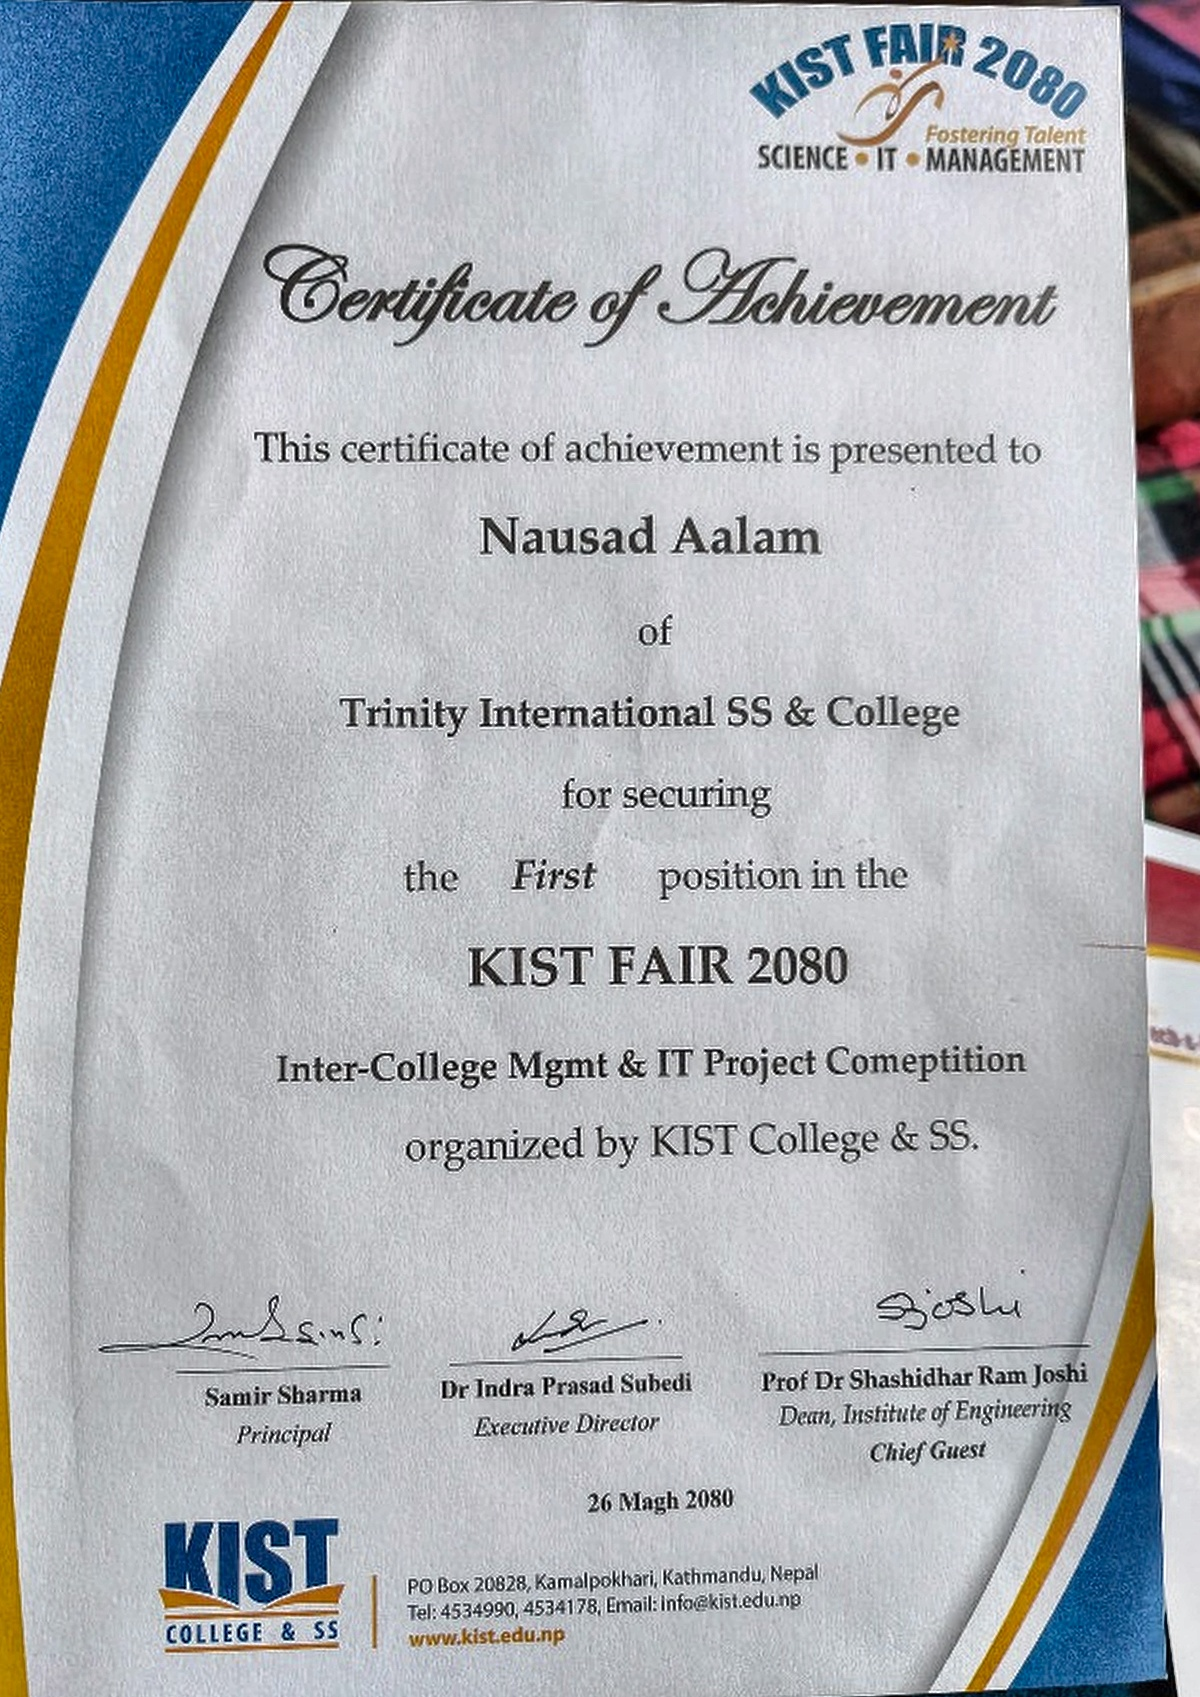
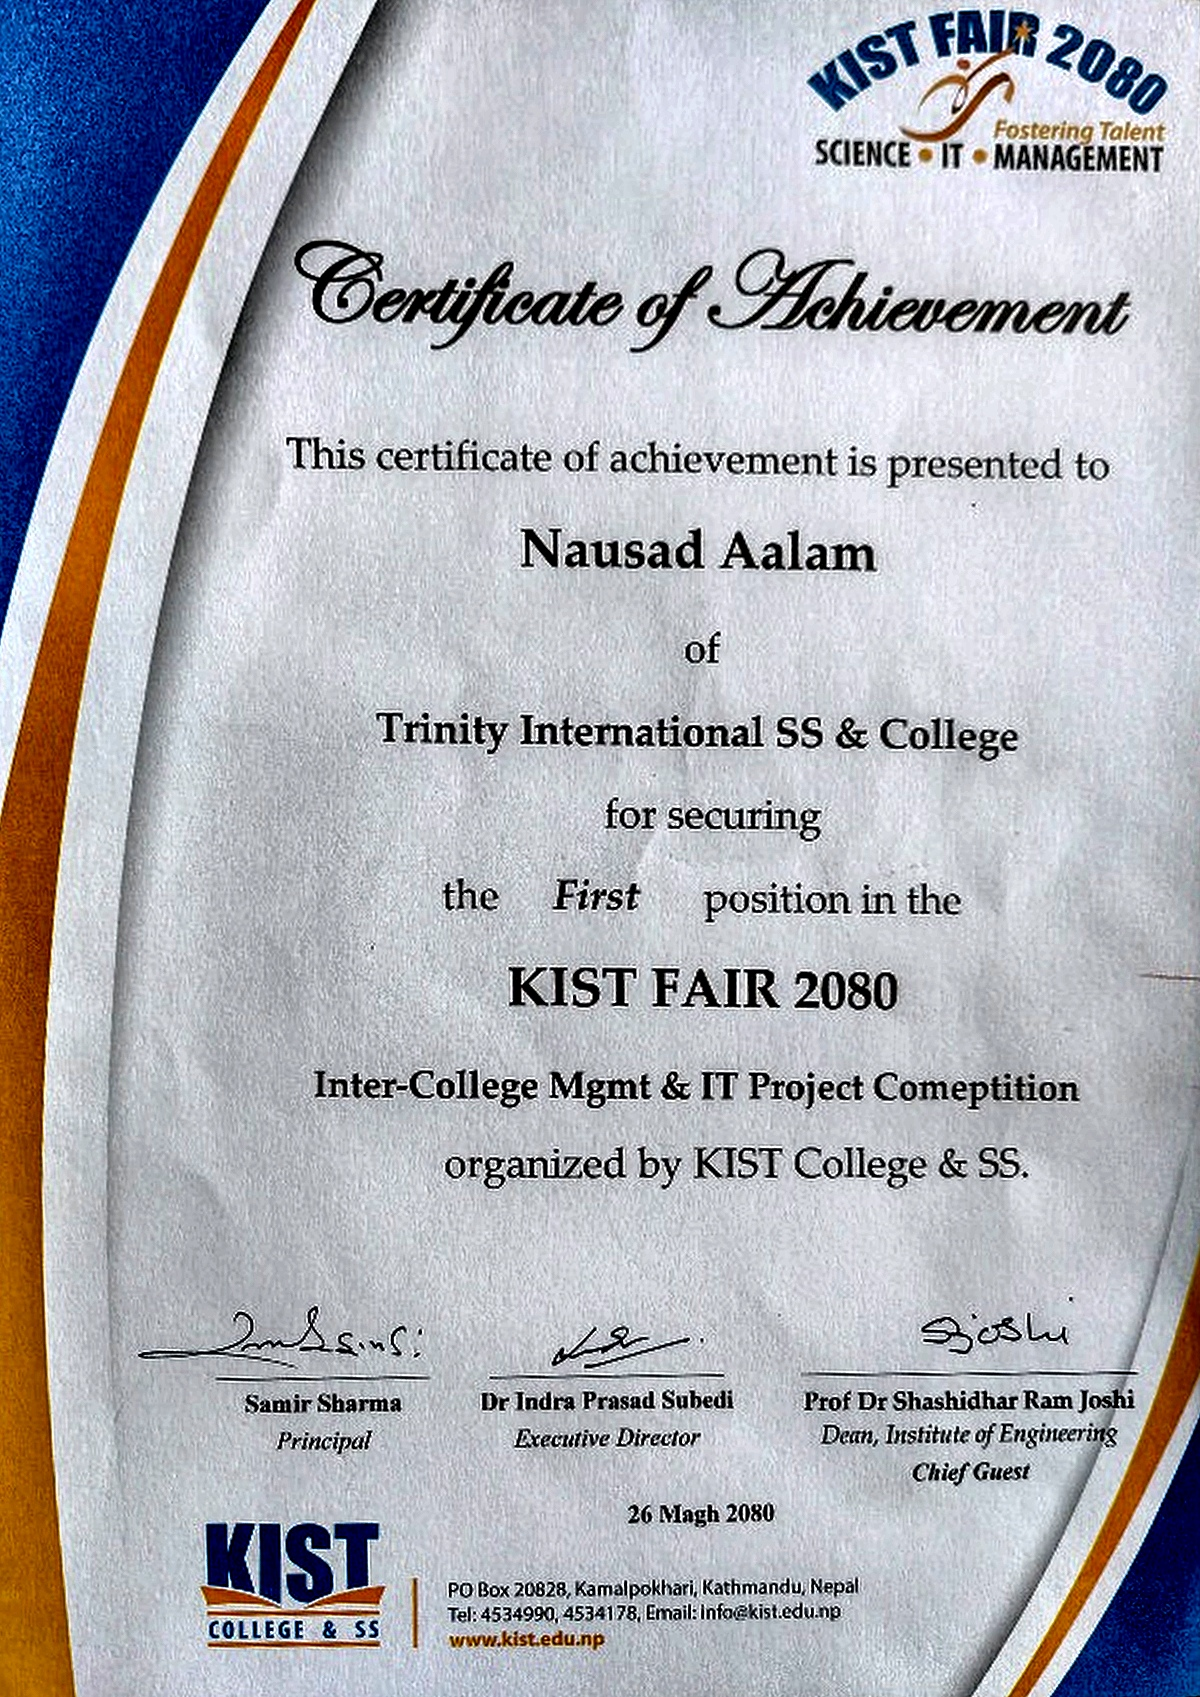
Enhance and clean crops of certificates; remove outer blanket/borders and upgrade showcase card styling

diff --git a/style.css b/style.css
@@ -1388,30 +1388,34 @@ body {
 
 .cert-thumb-wrapper {
   position: relative;
-  height: 290px;
-  background: #090c15;
+  height: 330px;
+  background: radial-gradient(circle at center, #131726 0%, #070910 100%);
   overflow: hidden;
   border-bottom: 1px solid rgba(255, 255, 255, 0.08);
   display: flex;
   align-items: center;
   justify-content: center;
+  padding: 14px;
 }
 
 .cert-thumb {
   width: 100%;
   height: 100%;
-  object-fit: cover;
-  object-position: top center;
-  transition: transform 0.5s cubic-bezier(0.16, 1, 0.3, 1);
+  object-fit: contain;
+  object-position: center;
+  border-radius: 6px;
+  box-shadow: 0 8px 25px rgba(0, 0, 0, 0.65), 0 0 1px rgba(255, 255, 255, 0.2);
+  transition: transform 0.4s cubic-bezier(0.16, 1, 0.3, 1), box-shadow 0.4s ease;
 }
 
 .cert-landscape-thumb .cert-thumb {
-  object-fit: cover;
+  object-fit: contain;
   object-position: center;
 }
 
 .cert-card:hover .cert-thumb {
-  transform: scale(1.06);
+  transform: scale(1.035);
+  box-shadow: 0 12px 35px rgba(0, 0, 0, 0.8), 0 0 16px rgba(0, 240, 255, 0.3);
 }
 
 .cert-overlay {
